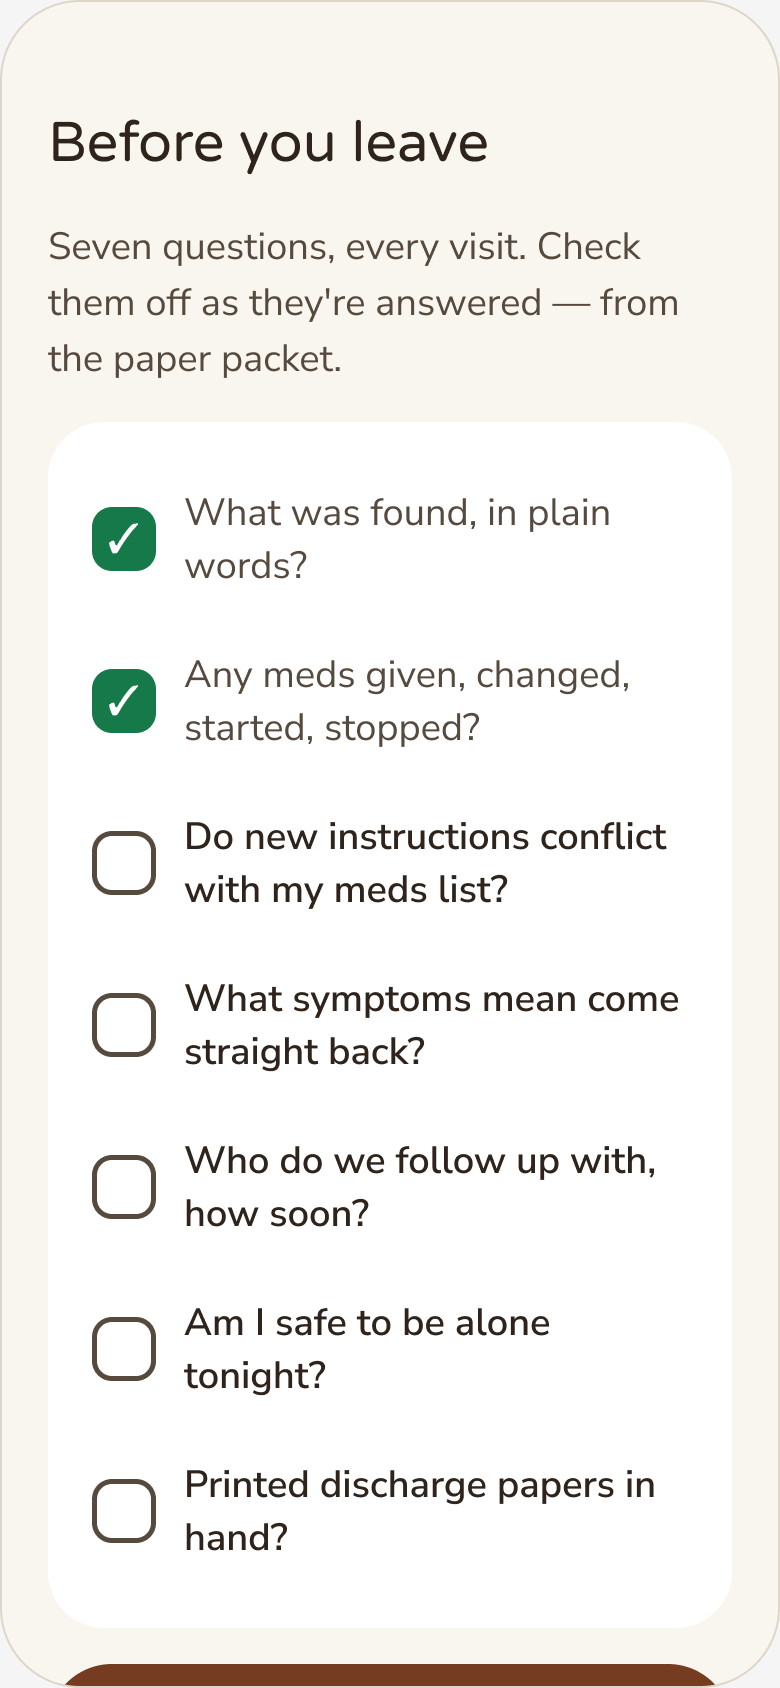
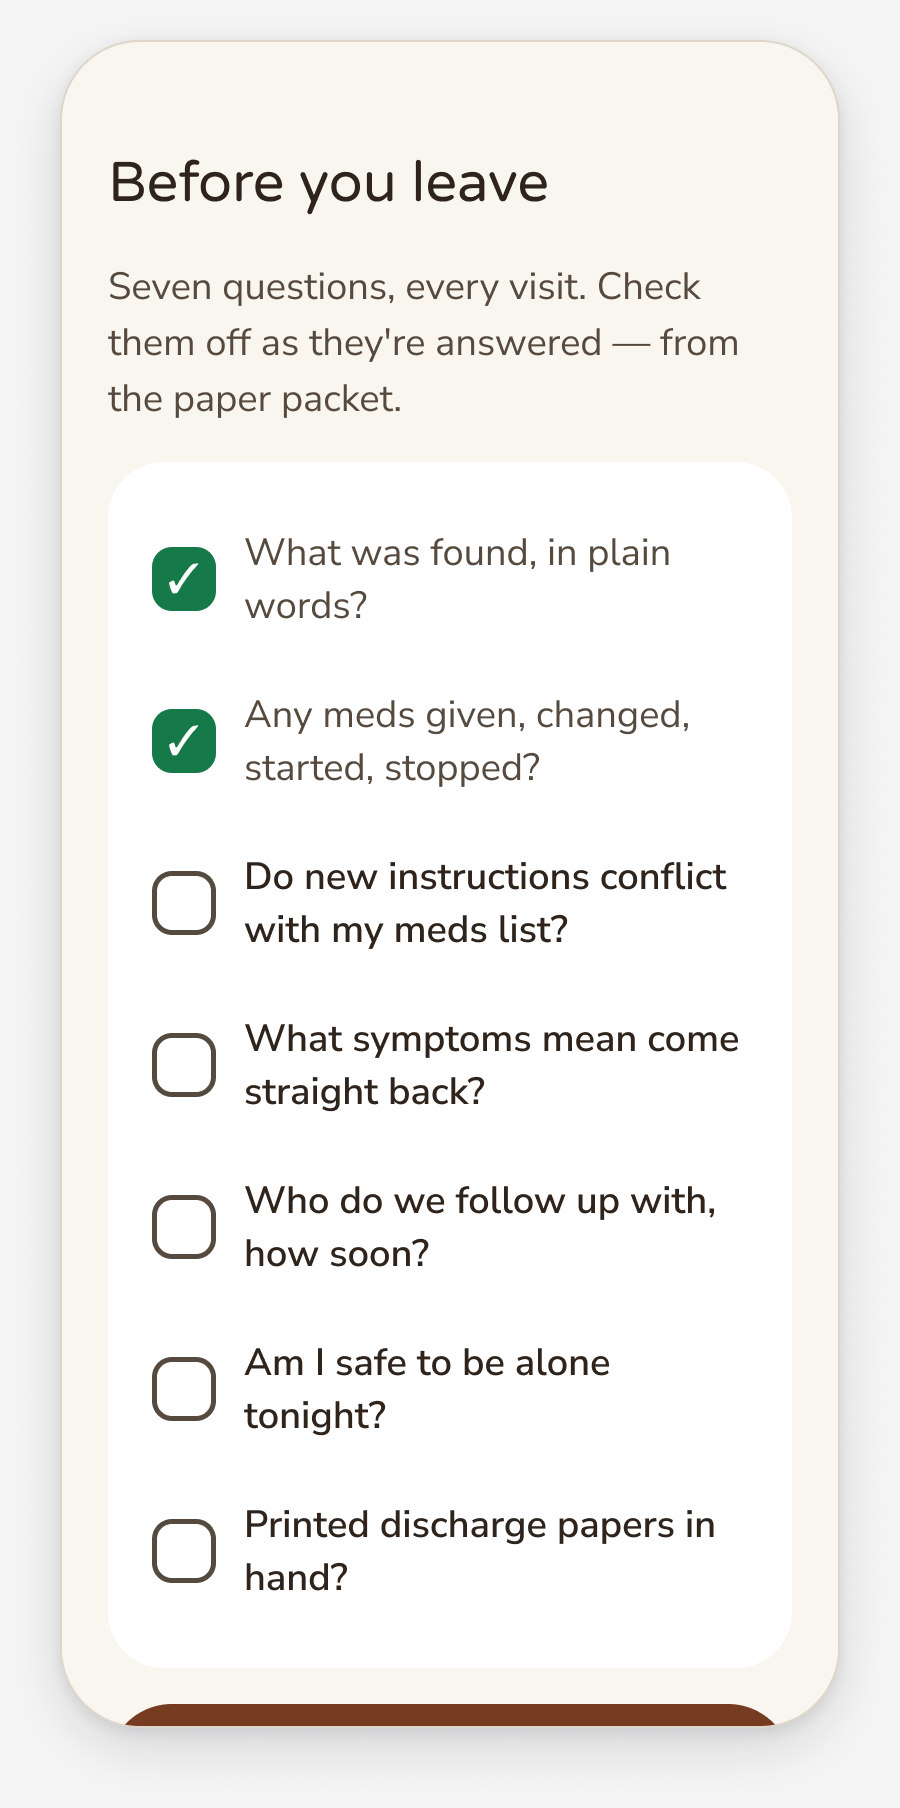
fix: bake drop shadows into screen exports for light-mode separation
Transparent gaps alone disappeared in light mode (near-white
phones on #e7eaed mat). Added soft drop shadows to every phone
frame in Figma and re-exported rows and 2x singles; singles grew
to 900x1808 to include shadow bleed.

Changed region(s): [[0.0615, 0.0616, 0.9538, 1.0], [0.9846, 0.0308, 1.0, 0.9858], [0.6769, 0.2773, 0.7692, 0.3389]]

diff --git a/app/work/personal-nurse/case-study-content.tsx b/app/work/personal-nurse/case-study-content.tsx
@@ -258,8 +258,8 @@ export function CaseStudyContent() {
 							<Image
 								src={`${IMG}/screen-nurse-card.png`}
 								alt="Nurse card on her phone: Hello I'm Carol band, a red please-know-first allergy card, why I'm here, and small things that help a lot"
-								width={780}
-								height={1688}
+								width={900}
+								height={1808}
 								sizes="(min-width: 768px) 460px, 100vw"
 								className="h-auto w-full"
 							/>
@@ -465,8 +465,8 @@ function ScreenRow({ s, flip }: { s: Screen; flip: boolean }) {
 			<Image
 				src={s.img}
 				alt={s.alt}
-				width={780}
-				height={1688}
+				width={900}
+				height={1808}
 				sizes="(min-width: 768px) 360px, 80vw"
 				className="h-auto w-full"
 			/>
